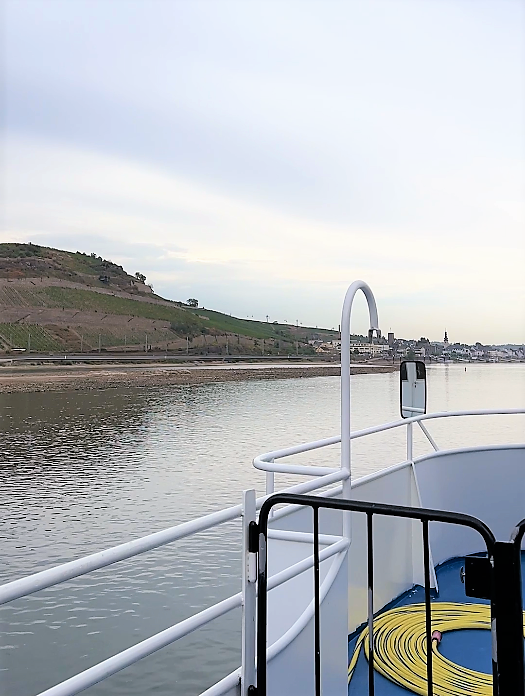
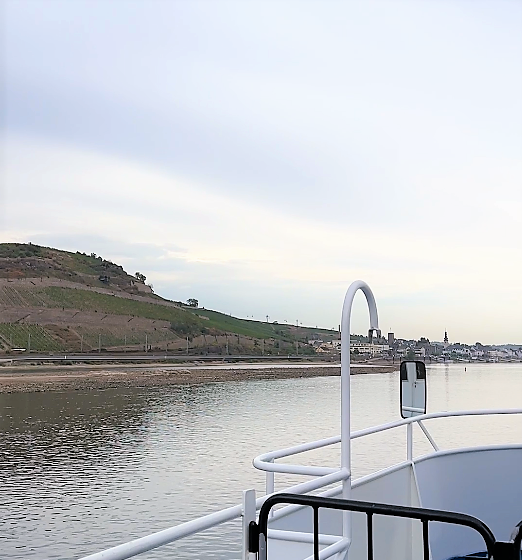
edited photos, added layer controls

diff --git a/trip.js b/trip.js
@@ -1,12 +1,45 @@
-const map = L.map("map").setView([49.986, 7.9], 13);
-
 var osmDE = L.tileLayer("https://{s}.tile.openstreetmap.de/{z}/{x}/{y}.png", {
   maxZoom: 18,
   attribution:
     '&copy; <a href="https://www.openstreetmap.org/copyright">OpenStreetMap</a> contributors',
 });
 
-osmDE.addTo(map);
+var stadiadark = L.tileLayer(
+  "https://tiles.stadiamaps.com/tiles/alidade_smooth_dark/{z}/{x}/{y}{r}.png",
+  {
+    maxZoom: 20,
+    attribution:
+      '&copy; <a href="https://stadiamaps.com/">Stadia Maps</a>, &copy; <a href="https://openmaptiles.org/">OpenMapTiles</a> &copy; <a href="http://openstreetmap.org">OpenStreetMap</a> contributors',
+  }
+);
+
+var stamentoner = L.tileLayer(
+  "https://stamen-tiles-{s}.a.ssl.fastly.net/toner-lite/{z}/{x}/{y}{r}.{ext}",
+  {
+    attribution:
+      'Map tiles by <a href="http://stamen.com">Stamen Design</a>, <a href="http://creativecommons.org/licenses/by/3.0">CC BY 3.0</a> &mdash; Map data &copy; <a href="https://www.openstreetmap.org/copyright">OpenStreetMap</a> contributors',
+    subdomains: "abcd",
+    minZoom: 0,
+    maxZoom: 20,
+    ext: "png",
+  }
+);
+
+var map = L.map("map", {
+  center: [49.986, 7.9],
+  zoom: 13,
+  layers: [osmDE, stadiadark, stamentoner],
+});
+
+var baseMaps = {
+  "Stamen Toner Lite": stamentoner,
+  "OpenStreetMap DE": osmDE,
+  "Stadia Alidade Smooth Dark": stadiadark,
+};
+
+var overlays = {};
+
+var layerControl = L.control.layers(baseMaps, overlays).addTo(map);
 
 function onEachFeature(feature, layer) {
   // does this feature have a property named popupContent?
@@ -40,8 +73,6 @@ var customMarker = L.icon({
   shadowAnchor: [11, 59], // the same for the shadow
   popupAnchor: [0, 0], // point from which the popup should open relative to the iconAnchor
 });
-
-//L.marker([50.00945, 7.85197], { icon: customMarker }).addTo(map);
 
 $.getJSON("/data/photo_pts.geojson", function (data) {
   L.geoJson(data, {
